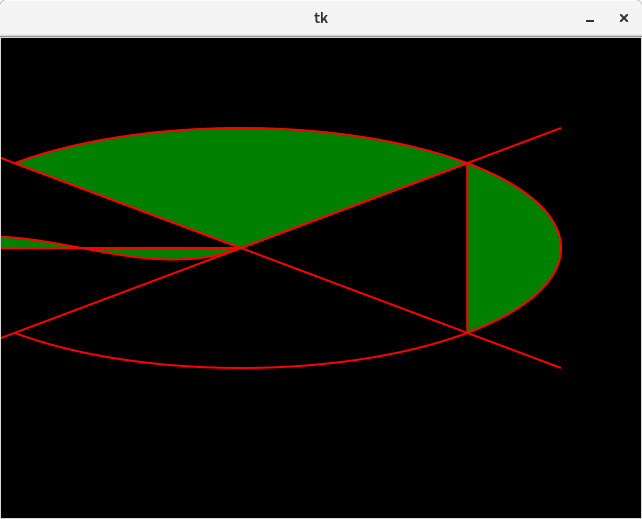
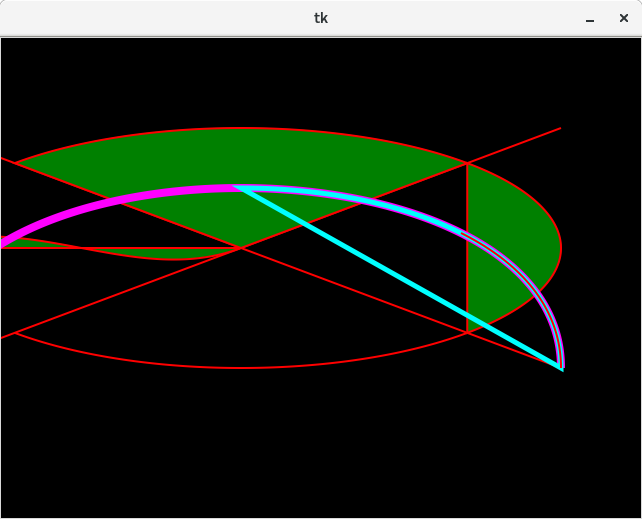
Reworked lots of things
Changed Transform to user operator instead of np.matmul
Changed Symbol to draw to entire Canvas bounds
Added cubic bezier curve shape
Added code for splitting a cubic bezier curve
General maintenance

diff --git a/shapes.py b/shapes.py
@@ -32,15 +32,78 @@ class TestShapeChildren(Shape):
 		w,h = DEF_WIDTH, DEF_HEIGHT
 		bounds = (0, 0, w, h)
 		self.add(
-			Line((0, 0, w, h), **ckwargs),
-			Line((0, h, w, 0), **ckwargs),
+			Line((0, 0), (w, h), **ckwargs),
+			Line((0, h), (w, 0), **ckwargs),
 			Arc(bounds, 45, 135, **ckwargs),
 			Chord(bounds, 135, 225, **ckwargs),
 			PieSlice(bounds, 225, 315, **ckwargs),
-			Symbol(bounds, "M {} {} C {} {}, {} {}, {} {} Z".format(w/2,h/2,2*w/3,h/3,5*w/6,2*h/3,w,h/2), **ckwargs)
+			Symbol("M {} {} C {} {}, {} {}, {} {} Z".format(w/2,h/2,2*w/3,h/3,5*w/6,2*h/3,w,h/2), **ckwargs)
 		)
-		# Apply transform to children
-		self.update_transform()
+
+class Symbol(Shape):
+	"""
+	SVG path object
+	"""
+	def __init__(self, path, **kwargs):
+		assert isinstance(path, str), "Path must be a string"
+		symbol = aggdraw.Symbol(path)
+		handle_config(self, kwargs, locals())
+		Shape.__init__(self, **kwargs)
+	
+	def draw_self(self, canvas, pen, brush):
+		canvas.drawing.symbol(canvas.bounds(), self.symbol, pen, brush)
+	
+	def update_symbol(self):
+		"""
+		Update the internal aggdraw symbol object
+		"""
+		self.symbol = aggdraw.Symbol(self.path)
+
+class BezierCurve(Symbol):
+	"""
+	A cubic bezier curve
+	"""
+	CONFIG = {
+		"slice_pos": 1.,
+		"close_path": False
+	}
+	def __init__(self, p0, p1, p2, p3, **kwargs):
+		for p in [p0, p1, p2, p3]:
+			assert isinstance(p, tuple), "Must provide points as tuples"
+			assert len(p) == 2, "Must provide pairs of points"
+			for v in p:
+				assert is_number(v), "Must provide coordinates as numbers"
+		handle_config(self, kwargs, dict(anchors = [p0, p1, p2, p3]))
+		self.slice(self.slice_pos)
+		Symbol.__init__(self, self.path_string(), **kwargs)
+	
+	def draw_self(self, canvas, pen, brush):
+		if self.slice_pos != 0.:
+			Symbol.draw_self(self, canvas, pen, brush)
+	
+	def path_string(self):
+		"""
+		Return the curve as an SVG path string
+		"""
+		coords = reduce(lambda p,c: p + [int(c[0]), int(c[1])], self.drawn, [])
+		path = "M {} {} C {} {}, {} {}, {} {}".format(*coords)
+		if self.close_path:
+			path += " Z"
+		return path
+	
+	def update_drawing(self):
+		"""
+		Update the internal symbol
+		"""
+		self.symbol = aggdraw.Symbol(self.path_string())
+	
+	def slice(self, t):
+		"""
+		Set the drawn curve to be a slice of the original
+		"""
+		self.slice_pos = t
+		self.drawn = slice_curve(self.slice_pos, *self.anchors)
+		self.update_drawing()
 
 class BoundedShape(Shape):
 	"""
@@ -55,27 +118,14 @@ class Line(BoundedShape):
 	"""
 	Simple line
 	"""
-	def draw_self(self, canvas, pen, brush):
-		canvas.drawing.line(self.bounds, pen)
-
-class Symbol(BoundedShape):
-	"""
-	SVG path object
-	"""
-	def __init__(self, bounds, path, **kwargs):
-		assert isinstance(path, str), "Path must be a string"
-		symbol = aggdraw.Symbol(path)
-		handle_config(self, kwargs, locals())
+	def __init__(self, p0, p1, **kwargs):
+		for p in [p0, p1]:
+			assert_point(p)
+		bounds = (p0[0], p0[1], p1[0], p1[1])
 		BoundedShape.__init__(self, bounds, **kwargs)
 	
 	def draw_self(self, canvas, pen, brush):
-		canvas.drawing.symbol(self.bounds, self.symbol, pen, brush)
-	
-	def update(self):
-		"""
-		Update the internal aggdraw symbol object
-		"""
-		self.symbol = aggdraw.Symbol(self.path)
+		canvas.drawing.line(self.bounds, pen)
 
 class SliceShape(BoundedShape):
 	"""

diff --git a/helpers.py b/helpers.py
@@ -7,7 +7,7 @@ import Tkinter as tk
 # Some helpers copied from 3B1B's Manim project
 # https://github.com/3b1b/manim
 
-# Window dimensions
+# Constants
 DEF_WIDTH = 640
 DEF_HEIGHT = 480
 
@@ -99,6 +99,8 @@ def to_color(col):
 	Convert different color representations to a Color object
 	"""
 	try:
+		if col == None:
+			return col
 		if isinstance(col, Color):
 			return col
 		if isinstance(col, str):
@@ -131,3 +133,39 @@ def verify_bounds(bounds):
 	assert len(bounds) == 4, "Must provide four coordinates"
 	for v in bounds:
 		assert is_number(v), "Bounds must be a tuple of numbers"
+
+def bounds_from_points(*points):
+	"""
+	Create a bounds tuple enclosing the points
+	"""
+	if len(points) == 0:
+		return (0, 0, 0, 0)
+	p0 = points[0]
+	xmin, ymin, xmax, ymax = p0[0], p0[1], p0[0], p0[1]
+	for p in points:
+		xmin = min(xmin, p[0])
+		ymin = min(ymin, p[1])
+		xmax = max(xmax, p[0])
+		ymax = max(ymax, p[1])
+	return (xmin, ymin, xmax, ymax)
+
+def assert_point(p):
+	"""
+	Assertions for a valid point
+	"""
+	assert isinstance(p, tuple), "Must provide points as tuples"
+	assert len(p) == 2, "Must provide pairs of points"
+	for v in p:
+		assert is_number(v), "Must provide coordinates as numbers"
+
+def slice_curve(t, p0, p1, p2, p3):
+	"""
+	Cut a cubic bezier curve at a particular percentage
+	"""
+	M = np.matrix([[1., 0., 0., 0.], [-3., 3., 0., 0.], [3., -6., 3., 0.], [-1., 3., -3., 1.]])
+	c = 1. * t
+	C = np.matrix([[1., 0., 0., 0.], [0., c, 0., 0.], [0., 0., c**2, 0.], [0., 0., 0., c**3]])
+	Q = M.getI() * C * M
+	resultX = Q * np.matrix([p0[0], p1[0], p2[0], p3[0]]).getT()
+	resultY = Q * np.matrix([p0[1], p1[1], p2[1], p3[1]]).getT()
+	return zip(resultX.getA1(), resultY.getA1())

diff --git a/test.py b/test.py
@@ -13,6 +13,10 @@ def main():
 	c = Canvas(w, h)
 	t = Transform.IDENTITY().shift(w / 8, h / 8).rotate_about(w / 2, h / 2, 180)
 	s = TestShapeChildren(stroke_color = "red", stroke_width = 2., fill_color = Color("green"), transform = t, parent_transform = Transform.RESIZE_ABOUT(w / 2, h / 2, 1., .5))
+	b1 = BezierCurve((0, 0), (0, h), (w, h), (w, 0), stroke_color = "#FF00FF", stroke_width = 8.)
+	b2 = BezierCurve((0, 0), (0, h), (w, h), (w, 0), stroke_color = "aqua", stroke_width = 5., slice_pos = .5, close_path = True)
+	b3 = BezierCurve((0, 0), (0, h), (w, h), (w, 0), stroke_color = (1., 0., 0.), stroke_width = 2., slice_pos = .25)
+	s.add(b1, b2, b3)
 	for shape in s.flatten():
 		print shape
 	c.draw(s)

diff --git a/transform.py b/transform.py
@@ -49,21 +49,21 @@ class Transform(object):
 		"""
 		Apply the matrix to a point
 		"""
-		point = np.matmul(self.matrix, np.matrix([x, y, 1]).getT())
+		point = self.matrix * np.matrix([x, y, 1]).getT()
 		return point[0], point[1]
 	
 	def combine(self, other):
 		"""
 		Combine two transformations (self on left)
 		"""
-		self.matrix = np.matmul(self.matrix, other.matrix)
+		self.matrix *= other.matrix
 		return self
 	
 	def merge(self, other):
 		"""
 		Combine two transformation (self on right)
 		"""
-		self.matrix = np.matmul(other.matrix, self.matrix)
+		self.matrix = other.matrix * self.matrix
 		return self
 	
 	@staticmethod

diff --git a/canvas.py b/canvas.py
@@ -24,6 +24,12 @@ class Canvas(object):
 	def copy(self):
 		return deepcopy(self)
 	
+	def bounds(self):
+		"""
+		Get the canvas bounds as a tuple
+		"""
+		return (0, 0, self.width, self.height)
+	
 	def draw(self, *shapes, **kwargs):
 		"""
 		Draw the shapes to memory

diff --git a/shape.py b/shape.py
@@ -74,6 +74,7 @@ class Shape(object):
 			self.validate_child(child)
 			if child not in self.children:
 				self.children.append(child)
+		self.update_transform()
 	
 	def remove(self, *children):
 		"""
